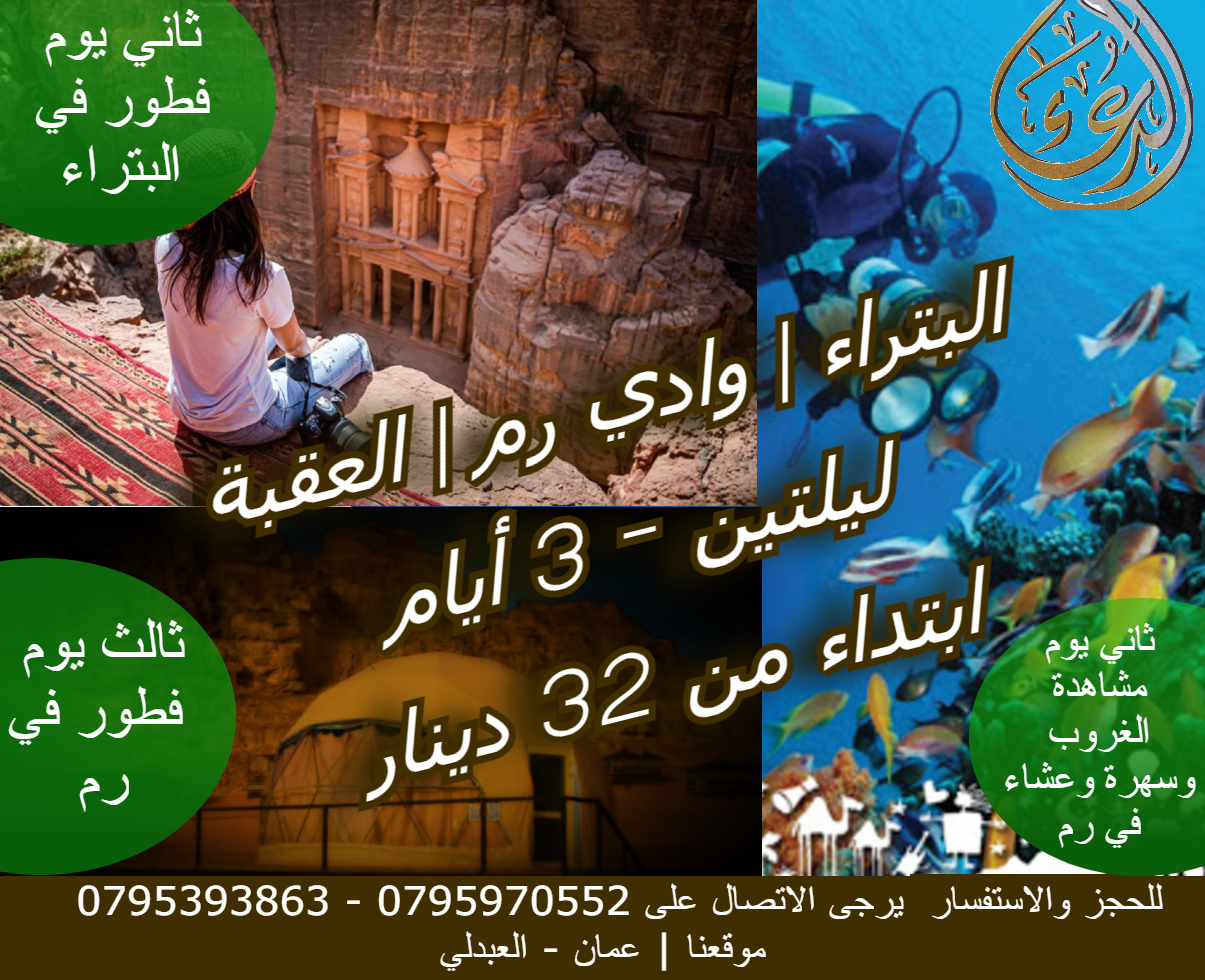
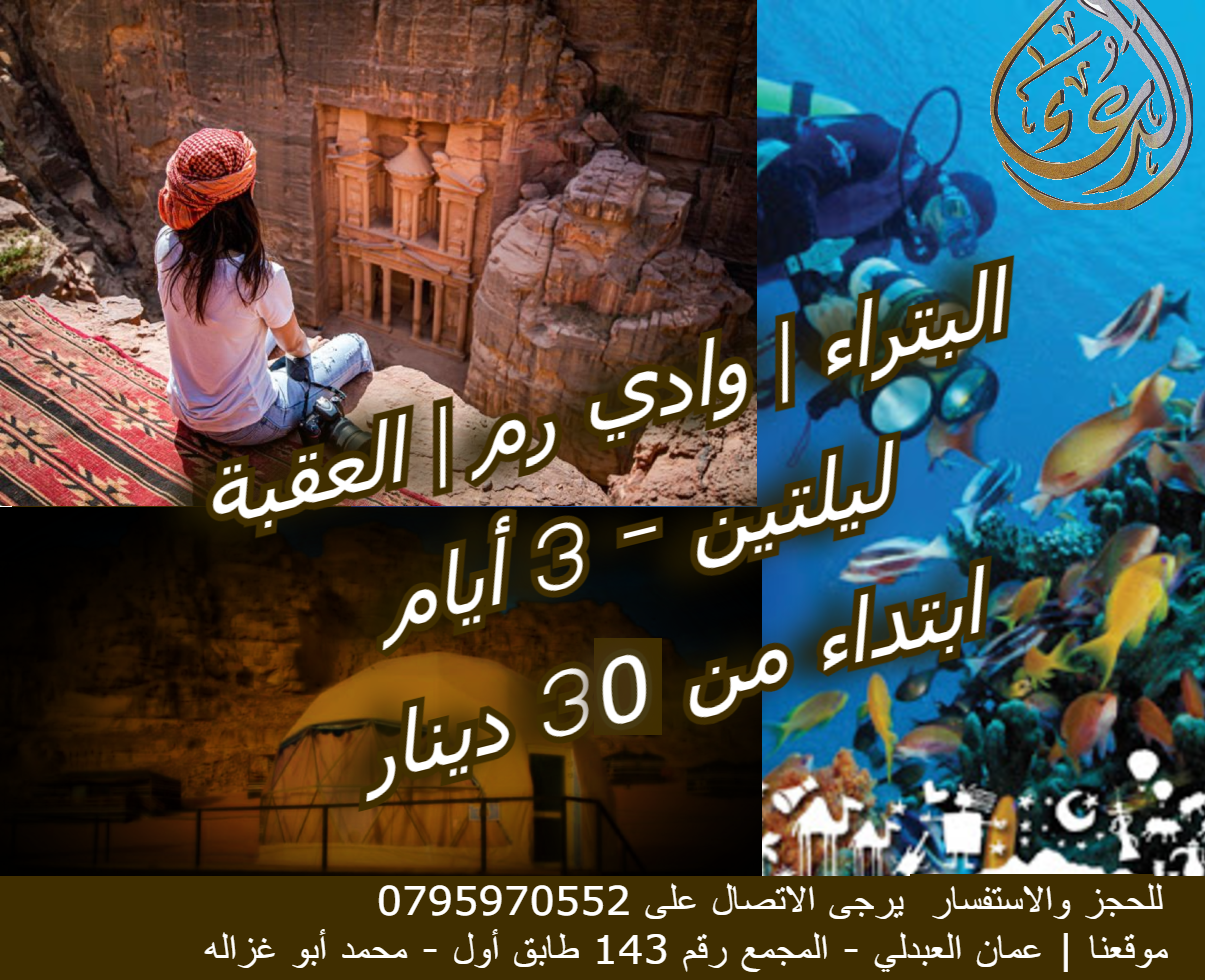
Add initial programs

diff --git a/index.html b/index.html
@@ -452,16 +452,50 @@
                                                 <img src="img/rumpetraaqaba2n.png" alt="">
                                                 <div class="text-content text-ar">
                                                     <h4>رم + البترا + العقبة</h4>
-                                                    <span class="text-ar">متاح جميع أيام الأسبوع</span>
-                                                    <p> 
-                                                        أول يوم الإنطلاق من المجمعات أو مراكز التجمع في المحافظات. ثم
-                                                        الذهاب إلى البتراء وقضاء باقي اليوم فيها. ثم   
-                                                       إفطار ثاني يوم في البتراء ثم الإنطلاق إلى وادي رم. ثم
-                                                       ثاني يوم مشاهدة الغروب + سهرة + عشاء في وادي رم. ثم
-                                                        ثالث يوم الإفطار في وادي رم ثم الذهاب إلى العقبة. ثم
-                                                       تسوق وغداء في العقبة ثم العودة إلى الباصات
+                                                    <span class="text-ar">الثلاثاء - الخميس - الجمعة</span>
+                                                    <ul class="program-details">
+                                                        <li>
+                                                            نجمتين  30 دينار 
+                                                        </li>
+                                                        <li>
+                                                            3  نجوم  40 دينار
+                                                        </li>
+                                                        <li>
+                                                            4 نجوم 50 دينار 
+                                                        </li>
+                                                        <li>
+                                                            5 نجوم  75  دينار 
+                                                        </li>
+                                                        <li>
+                                                            البرنامج يشمل زياره ألمدينه الورديه ( البتراء ) زياره البتراء اليوم الأول يوم حره  اليوم الثاني مغادره الفندق بعد الفطور
+                                                        </li>
+                                                        <li>
+                                                            التوجه الى المدينه البحريه ( العقبه) حتى ساعه 5 مساء  والتوجه الى وادي رم
+                                                        </li>
+                                                        <li>
+                                                            مشاهدة الغروب   مع استلام الخيم حسب شاركه في البرنامج   مع سهره و عشاء اليوم الثالث الفطور والعوده  الى نقطه الانطلاق
+                                                        </li>
+                                                    </ul>
+                                                    
+                                                    <div class="accent-button button">
+                                                        <a href="tel:00962795970552">سجل في البرنامج</a>
+                                                    </div>
+                                                </div>
+                                            </div>
+                                        </li>
+                                      
+                                        <li>
+                                            <div class="item">
+                                                <img src="img/aqaba2n.png" alt="">
+                                                <div class="text-content text-ar">
+                                                    <h4>العقبة 3 أيام</h4>
+                                                    <span class="text-ar">لم تحدد الأيام بعد</span>
+                                                    <ul class="program-details">
+                                                        <li>
+                                                            للتفاصيل يرجى الضغط على سجل في البرنامج ... 
+                                                        </li>
                                                        
-                                                        </p>
+                                                    </ul>
                                                     
                                                     <div class="accent-button button">
                                                         <a href="tel:00962795970552">سجل في البرنامج</a>
@@ -471,11 +505,16 @@
                                         </li>
                                         <li>
                                             <div class="item">
-                                                <img src="img/blog_2.jpg" alt="">
-                                                <div class="text-content">
-                                                    <h4>Cras commodo odio ut</h4>
-                                                    <span>16 July 2018</span>
-                                                    <p>Nam vel egestas nisi. Nullam lobortis magna at enim venenatis luctus. Nam finibus, mauris eu dictum iaculis, dolor tortor cursus quam, in volutpat augue lectus sed magna. Integer mollis lorem quis ipsum maximus finibus.</p>
+                                                <img src="img/petra1n.jpg" alt="">
+                                                <div class="text-content text-ar">
+                                                    <h4> البترا + العقبة</h4>
+                                                    <span class="text-ar">لم تحدد الأيام بعد</span>
+                                                    <ul class="program-details">
+                                                        <li>
+                                                            للتفاصيل يرجى الضغط على سجل في البرنامج ... 
+                                                        </li>
+                                                       
+                                                    </ul>
                                                     
                                                     <div class="accent-button button">
                                                         <a href="tel:00962795970552">سجل في البرنامج</a>
@@ -485,12 +524,38 @@
                                         </li>
                                         <li>
                                             <div class="item">
-                                                <img src="img/blog_3.jpg" alt="">
-                                                <div class="text-content">
-                                                    <h4>Sed at massa turpis</h4>
-                                                    <span>10 July 2018</span>
-                                                    <p>Nam vel egestas nisi. Nullam lobortis magna at enim venenatis luctus. Nam finibus, mauris eu dictum iaculis, dolor tortor cursus quam, in volutpat augue lectus sed magna. Integer mollis lorem quis ipsum maximus finibus.</p>
-                                                    
+                                                <img src="img/rumaqaba1n.jpg" alt="">
+                                                <div class="text-content text-ar">
+                                                    <h4>رم + العقبة</h4>
+                                                    <span class="text-ar">لم تحدد الأيام بعد</span>
+                                                    <ul class="program-details">
+                                                        <li>
+                                                            للتفاصيل يرجى الضغط على سجل في البرنامج ... 
+                                                        </li>
+                                                       
+                                                    </ul>
+                                                    <div class="accent-button button">
+                                                        <a href="tel:00962795970552">سجل في البرنامج</a>
+                                                    </div>
+                                                </div>
+                                            </div>
+                                        </li>
+                                        <li>
+                                            <div class="item">
+                                                <img src="img/jerashajlounumqais.png" alt="">
+                                                <div class="text-content text-ar">
+                                                    <div class="text-content text-ar">
+                                                        <h4>جرش | عجلون | أم قيس</h4>
+                                                        <span class="text-ar">لم تحدد الأيام بعد</span>
+                                                        <ul class="program-details">
+                                                            <li>
+                                                                في هذا البرنامج سيتم اختيار إما أم قيس أم عجلون أم جرش في رحلة ذلك اليوم في أشهى المطاعم
+                                                            </li>
+                                                            <li>
+                                                                للتفاصيل يرجى الضغط على سجل في البرنامج ... 
+                                                            </li>
+                                                           
+                                                        </ul>
                                                     <div class="accent-button button">
                                                         <a href="tel:00962795970552">سجل في البرنامج</a>
                                                     </div>

diff --git a/css/custom.css b/css/custom.css
@@ -127,3 +127,15 @@ background: linear-gradient(to right, #24243e, #302b63, #0f0c29); /* W3C, IE 10+
     margin-right: -50%;
     z-index: 1000;
 }
+#blog .tabgroup .program-details li {
+    display: list-item;
+    text-align: right;
+    margin-bottom: 0px;
+    padding-bottom: 5px;
+    border-bottom: 0px solid #ddd;
+    font-size: 2.5rem;
+}
+
+#blog .tabgroup .program-details{
+    list-style-type: square;
+}

diff --git a/css/templatemo-style.css b/css/templatemo-style.css
@@ -827,7 +827,7 @@ header {
   padding-top: 7.5px;
   margin-top: 0px;
   margin-bottom: 5px;
-  font-size: 2rem;
+  font-size: 4rem;
   font-weight: 600;
   color: #232323;
   letter-spacing: 0.5px;
@@ -836,7 +836,7 @@ header {
 #blog .item .text-content span {
   /* display: inline-block; */
   display: block;
-  font-size: 2rem;
+  font-size: 3rem;
   font-weight: 600;
   color: #7a7a7a;
   letter-spacing: 0.5px;
